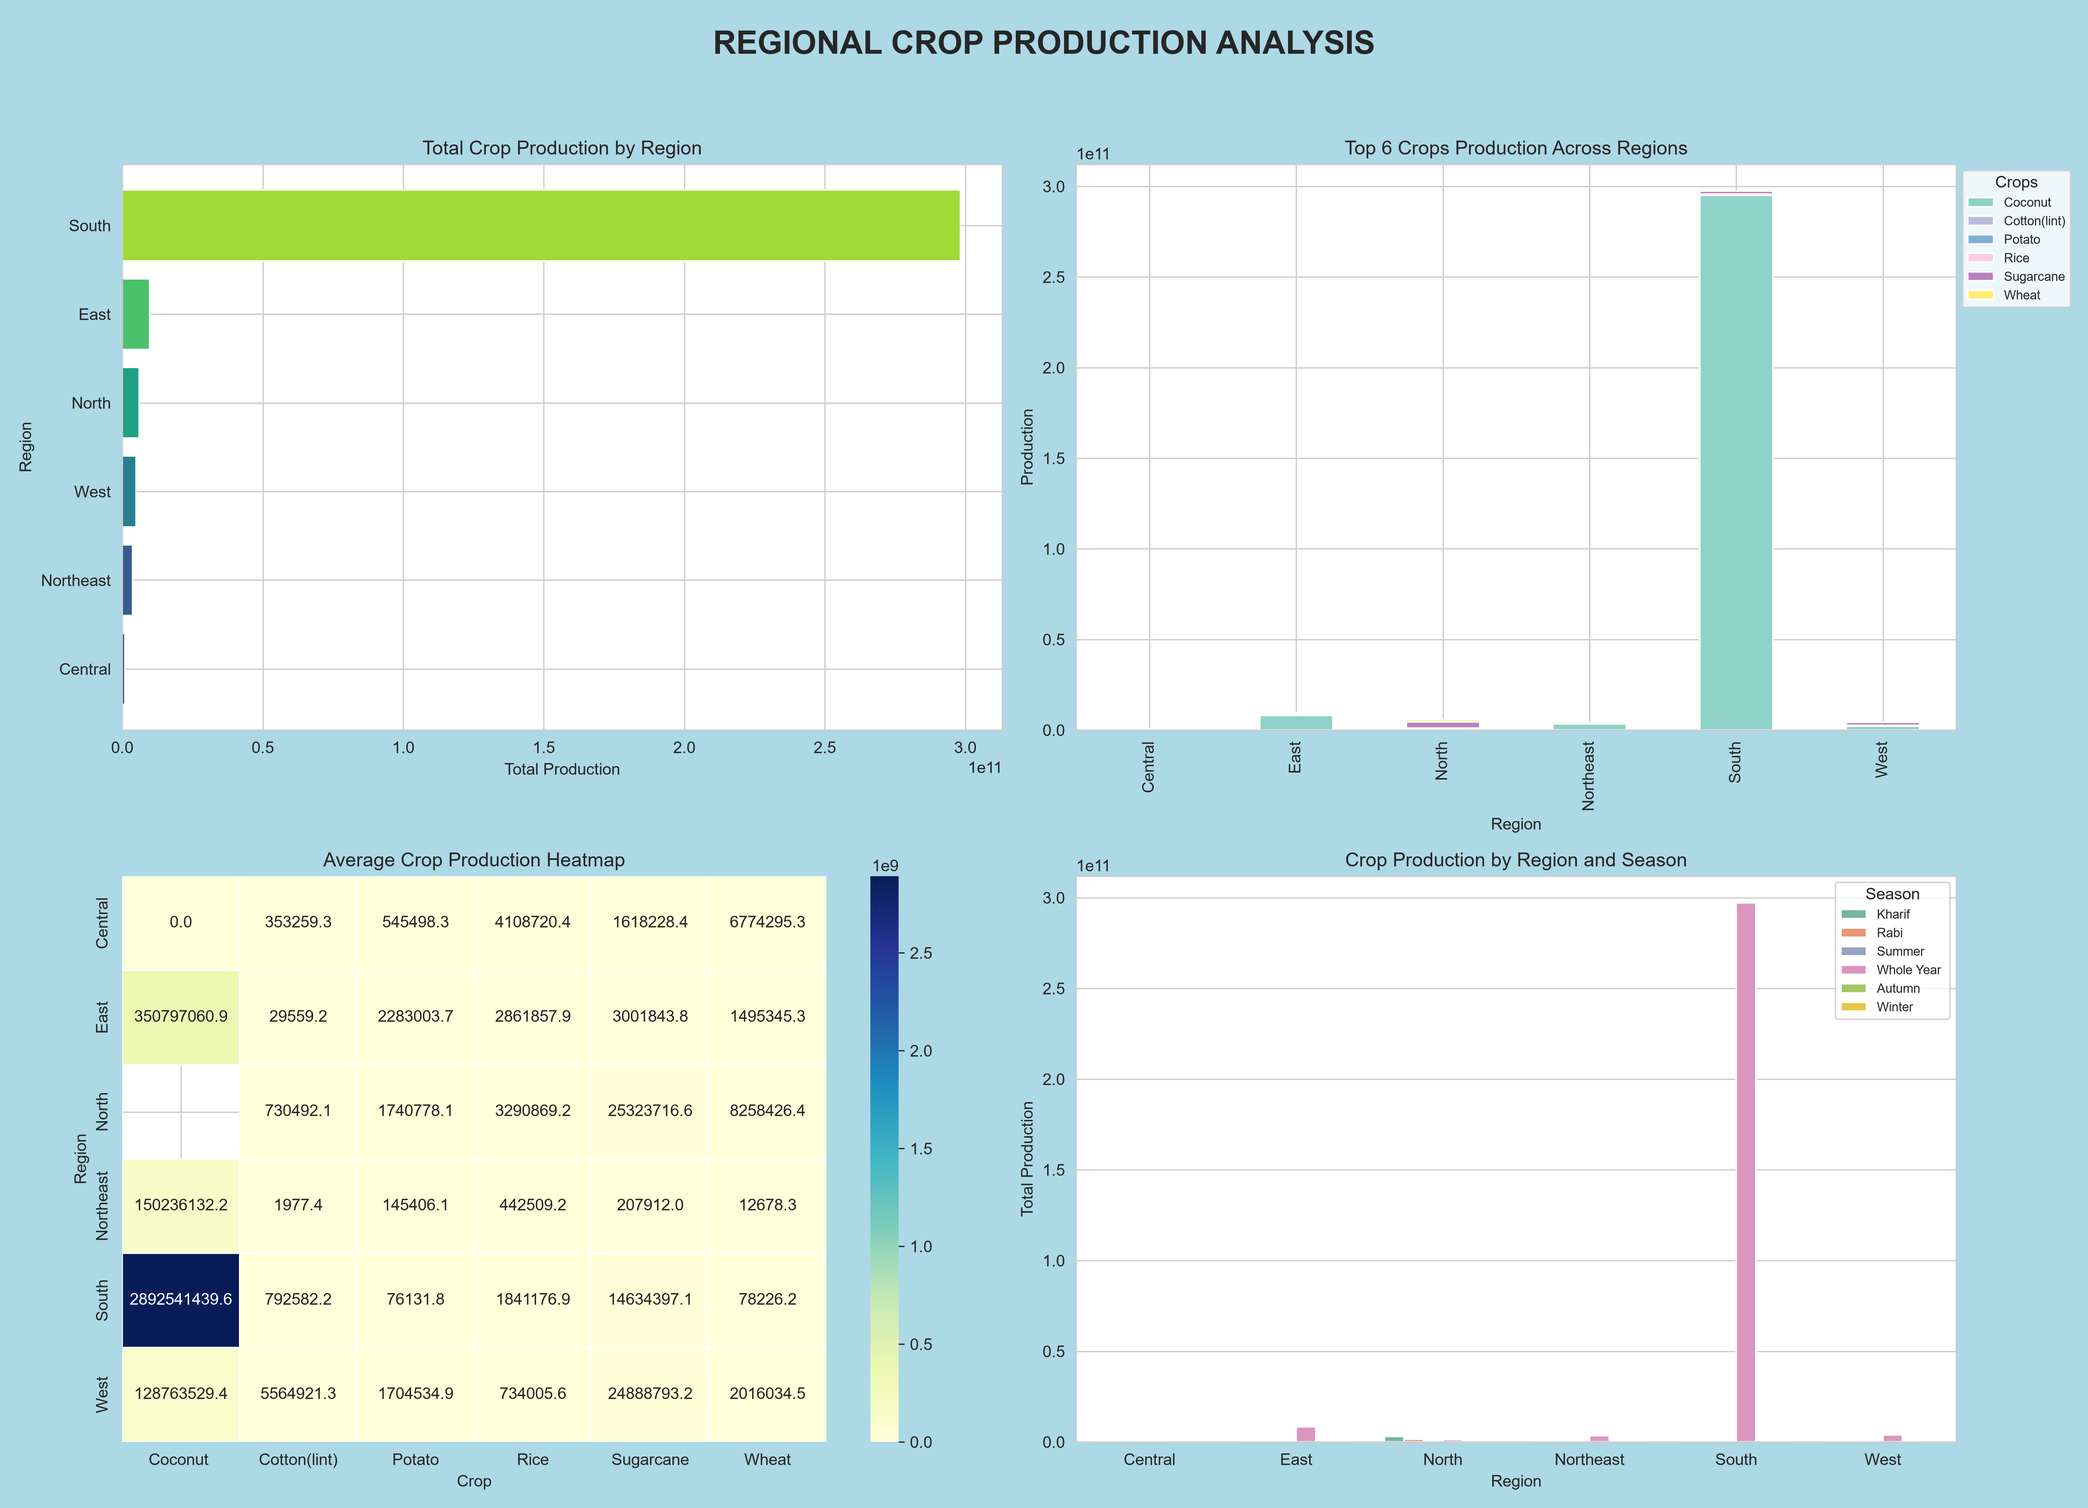
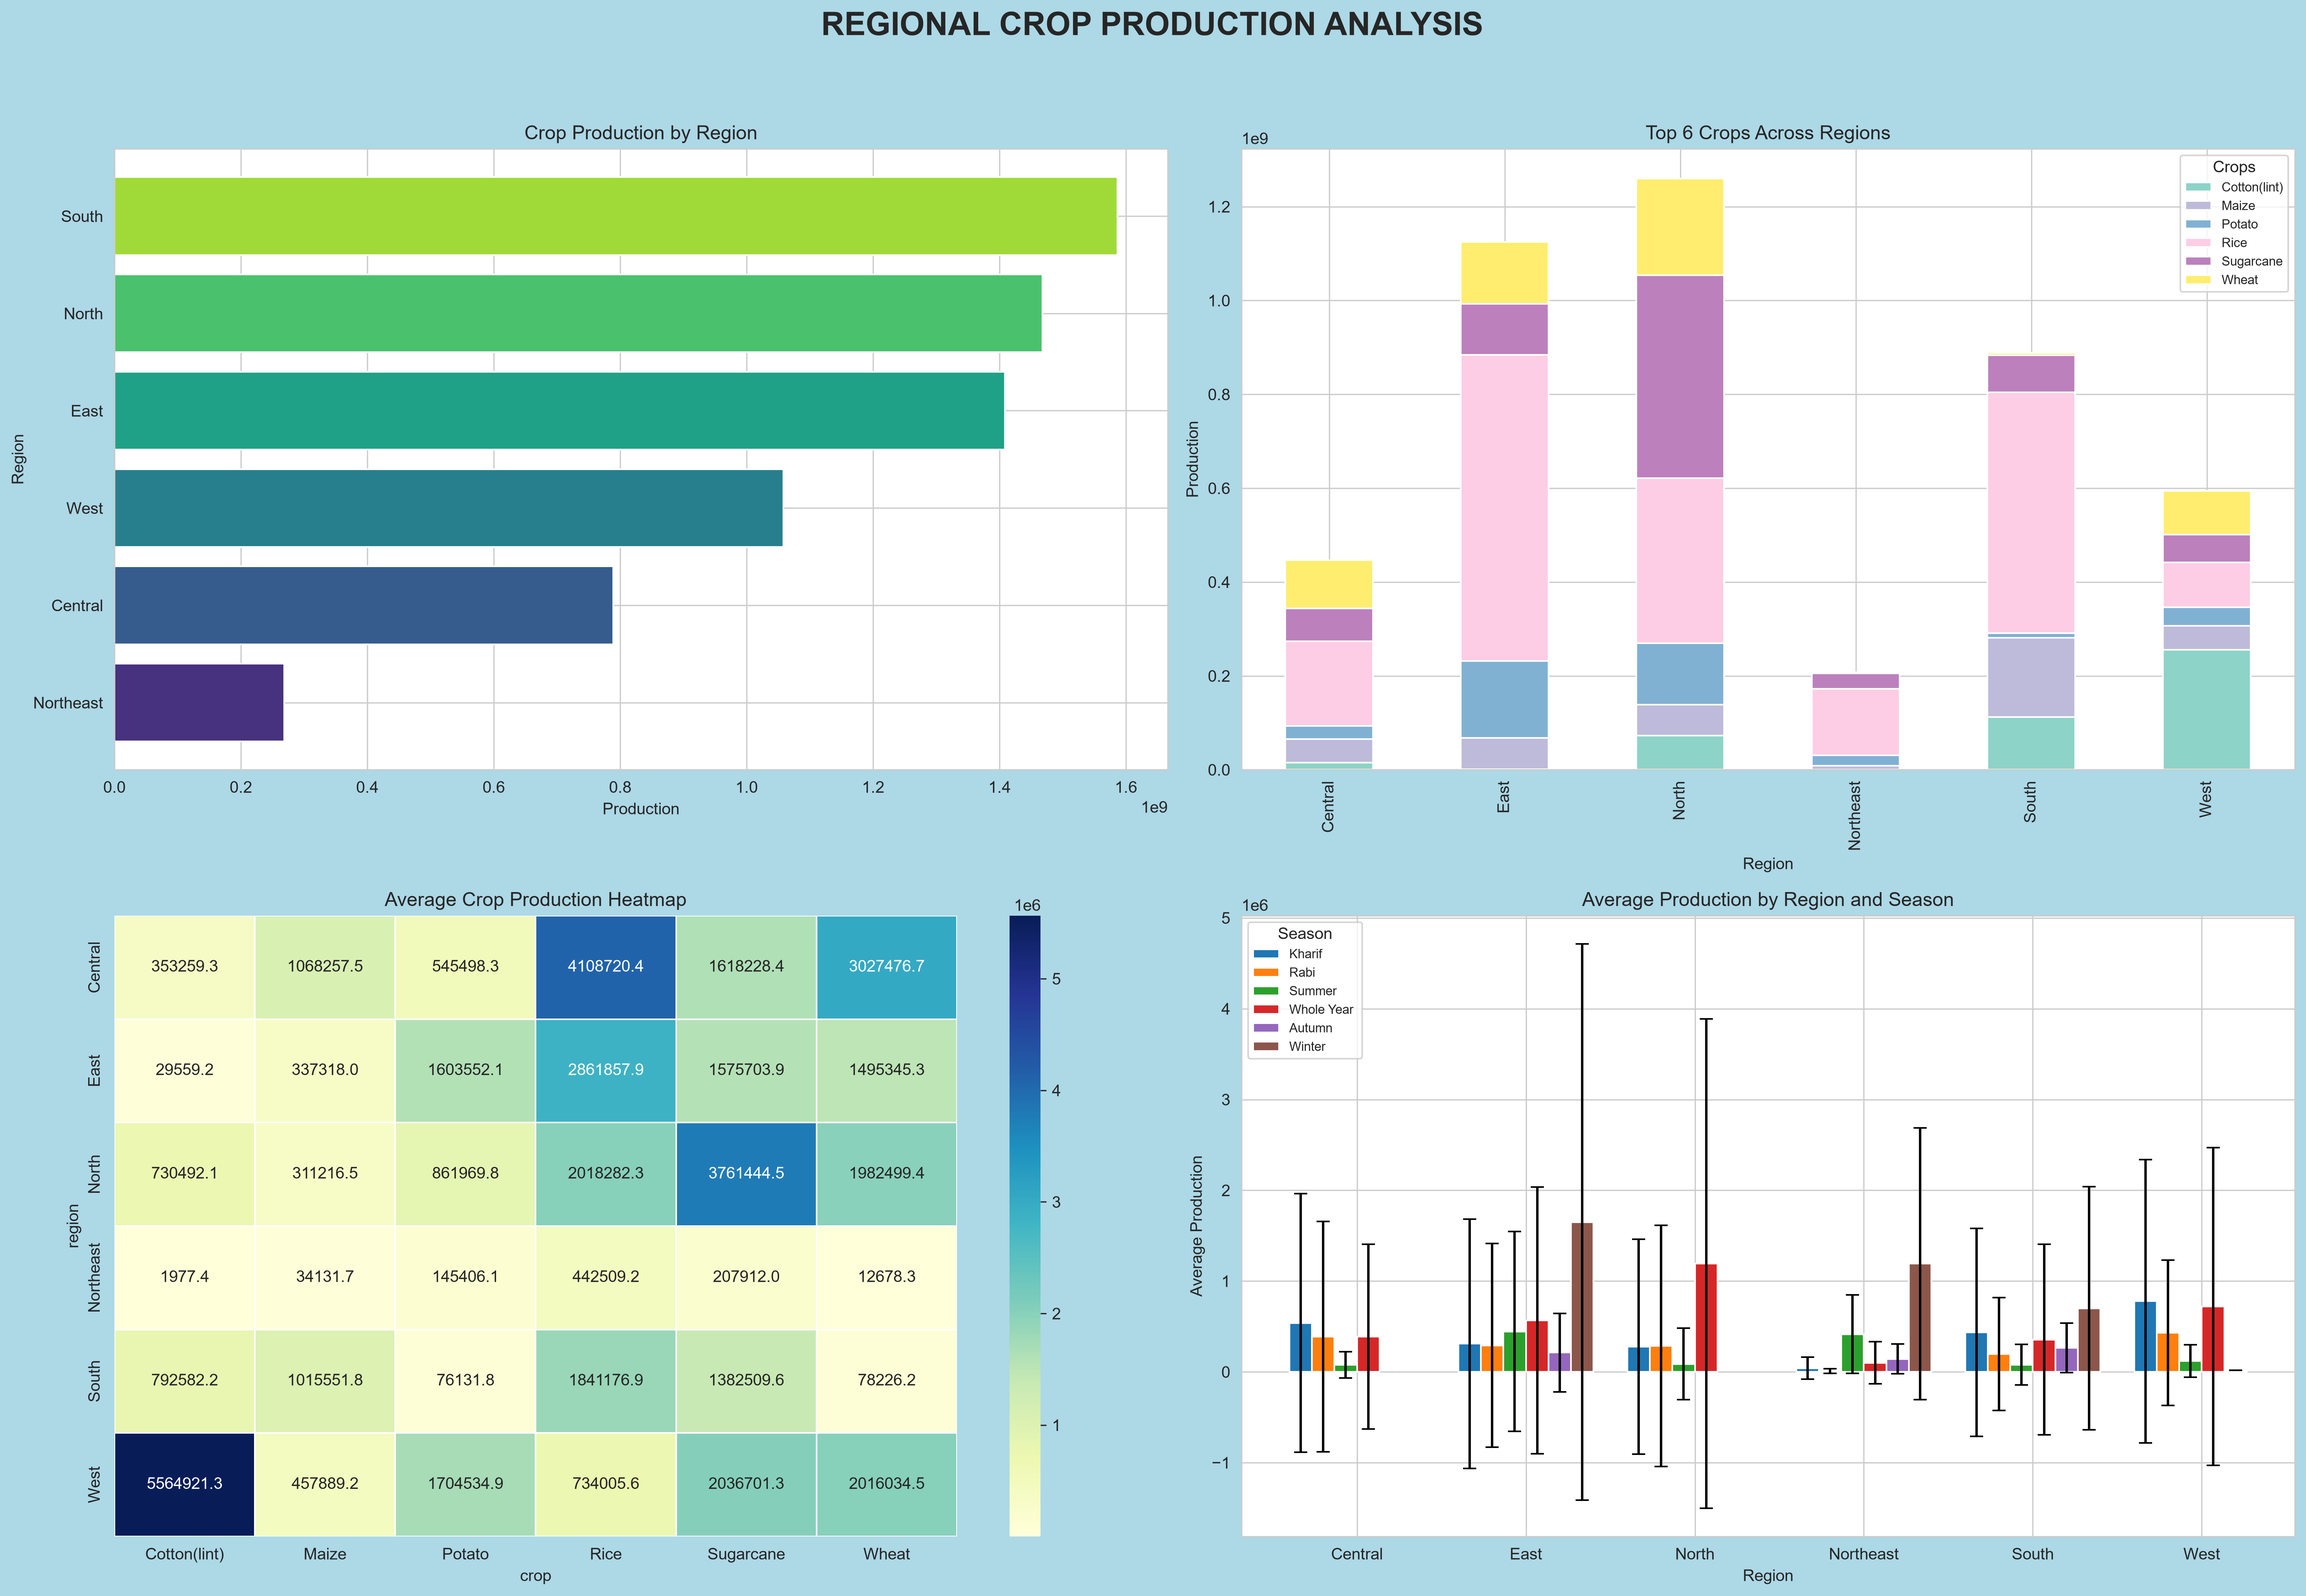
graphs with random 300 observations

diff --git a/visualization.py b/visualization.py
@@ -63,212 +63,243 @@ print("Dataset cleaned successfully!")
 print("Final dataset shape:", df.shape)
 
 # FIGURE 1: REGIONAL CROP PRODUCTION ANALYSIS
-fig, axes = plt.subplots(2, 2, figsize=(18, 13))
 
+production_limit = df["production"].quantile(0.98)
+plot_data = df[df["production"] <= production_limit]
+
+fig, axes = plt.subplots(2, 2, figsize=(20, 14))
 fig.patch.set_facecolor("lightblue")
 
 for ax in axes.flat:
     ax.set_facecolor("white")
 
 fig.suptitle("REGIONAL CROP PRODUCTION ANALYSIS",
-    fontsize=20,fontweight="bold")
+             fontsize=20, fontweight="bold")
 
-# Graph 1: Total production by region
 
-region_production = df.groupby("region")["production"].sum()
-region_production = region_production.sort_values()
+# GRAPH 1: Total Production by Region
+region_production = plot_data.groupby("region")["production"].sum().sort_values()
 
-axes[0, 0].barh(region_production.index,
-    region_production.values,
-    color=sns.color_palette("viridis", len(region_production)))
-
-axes[0, 0].set_title("Total Crop Production by Region")
-axes[0, 0].set_xlabel("Total Production")
+axes[0, 0].barh(region_production.index, region_production.values,
+                color=sns.color_palette("viridis", len(region_production)))
+axes[0, 0].set_title("Crop Production by Region")
+axes[0, 0].set_xlabel("Production")
 axes[0, 0].set_ylabel("Region")
 
-# Graph 2: Top 6 crops production across regions
 
-top_crops = (df.groupby("crop")["production"].sum()
-    .nlargest(6).index)
+# GRAPH 2: Top 6 Crops Across Regions
+top_crops = plot_data.groupby("crop")["production"].sum().nlargest(6).index
+crop_data = plot_data[plot_data["crop"].isin(top_crops)]
 
-crop_data = df[df["crop"].isin(top_crops)]
+crop_region = crop_data.pivot_table(
+    index="region", columns="crop", values="production",
+    aggfunc="sum", fill_value=0
+)
 
-crop_region = crop_data.pivot_table(index="region",columns="crop",
-    values="production",aggfunc="sum",fill_value=0)
-
-crop_region.plot(kind="bar",stacked=True,ax=axes[0, 1],colormap="Set3")
-
-axes[0, 1].set_title("Top 6 Crops Production Across Regions")
+crop_region.plot(kind="bar", stacked=True, ax=axes[0, 1], colormap="Set3")
+axes[0, 1].set_title("Top 6 Crops Across Regions")
 axes[0, 1].set_xlabel("Region")
 axes[0, 1].set_ylabel("Production")
-axes[0, 1].legend(title="Crops", fontsize=8,loc="upper left",bbox_to_anchor=(1, 1))
+axes[0, 1].legend(title="Crops", fontsize=8, bbox_to_anchor=(1, 1))
 
-# Graph 3: Heatmap of average crop production
 
-average_production = crop_data.pivot_table(index="region",columns="crop",
-    values="production",aggfunc="mean")
+# GRAPH 3: Average Crop Production Heatmap
+average_production = crop_data.pivot_table(
+    index="region", columns="crop", values="production", aggfunc="mean"
+)
 
-sns.heatmap(average_production,annot=True,fmt=".1f",
-    cmap="YlGnBu",linewidths=0.5,ax=axes[1, 0])
-
+sns.heatmap(average_production, annot=True, fmt=".1f",
+            cmap="YlGnBu", linewidths=0.5, ax=axes[1, 0])
 axes[1, 0].set_title("Average Crop Production Heatmap")
-axes[1, 0].set_xlabel("Crop")
-axes[1, 0].set_ylabel("Region")
 
-# Graph 4: Production by region and season with error bars
-season_data = df.groupby(["region", "season"]
+
+# GRAPH 4: Average Production by Region and Season
+season_data = plot_data.groupby(
+    ["region", "season"]
 )["production"].agg(["mean", "std"]).reset_index()
 
-regions = season_data["region"].unique()
+regions = sorted(season_data["region"].unique())
 seasons = season_data["season"].unique()
-
 x = np.arange(len(regions))
 width = 0.8 / len(seasons)
 
 for i, season in enumerate(seasons):
     data = season_data[season_data["season"] == season]
     values = data.set_index("region").reindex(regions)
-    axes[1, 1].bar(x + i * width,values["mean"],width,
-        yerr=values["std"].fillna(0),capsize=4,label=season)
+
+    axes[1, 1].bar(
+        x + i * width, values["mean"], width,
+        yerr=values["std"].fillna(0), capsize=4, label=season
+    )
 
 axes[1, 1].set_title("Average Production by Region and Season")
 axes[1, 1].set_xlabel("Region")
 axes[1, 1].set_ylabel("Average Production")
-
 axes[1, 1].set_xticks(x + width * (len(seasons) - 1) / 2)
 axes[1, 1].set_xticklabels(regions)
+axes[1, 1].legend(title="Season", fontsize=8)
 
-axes[1, 1].legend(title="Season")
+plt.tight_layout(rect=[0, 0, 1, 0.95])
+plt.savefig("output_graphs/figure1_regional_production.png",
+            dpi=300, bbox_inches="tight")
+plt.show()
+plt.close()
 
 # FIGURE 2: AGRICULTURAL FACTOR RELATIONSHIPS
+# Select 300 random observations
+sample_data = df.sample( n=min(300, len(df)), random_state=42)
 
-fig, axes = plt.subplots(2, 2, figsize=(18, 13))
+fig, axes = plt.subplots(2, 2, figsize=(20, 14))
 
 fig.patch.set_facecolor("lightblue")
 
 for ax in axes.flat:
     ax.set_facecolor("white")
 
-fig.suptitle("AGRICULTURAL FACTOR RELATIONSHIPS",fontsize=20,
-    fontweight="bold")
+fig.suptitle("AGRICULTURAL FACTOR RELATIONSHIPS",fontsize=20,fontweight="bold")
 
-sample_data = df.sample( n=min(2000, len(df)), random_state=42)
+# GRAPH 1: FERTILIZER VS YIELD
+fertilizer_data = sample_data.dropna(    subset=["fertilizer", "yield"])
 
-# Graph 1: Fertilizer vs yield
+fertilizer_data = fertilizer_data[
+    (fertilizer_data["fertilizer"] <=
+     fertilizer_data["fertilizer"].quantile(0.98)) &
+    (fertilizer_data["yield"] <=
+     fertilizer_data["yield"].quantile(0.98))
+]
 
-fertilizer_data = sample_data.dropna(subset=["fertilizer", "yield"])
+sns.scatterplot( data=fertilizer_data, x="fertilizer", y="yield", hue="region", palette="viridis",
+    s=60, alpha=0.7, ax=axes[0, 0])
+sns.regplot( data=fertilizer_data, x="fertilizer", y="yield",
+    scatter=False, color="red", ax=axes[0, 0])
 
-sns.scatterplot(data=fertilizer_data,x="fertilizer",y="yield",
-    hue="region", palette="viridis", ax=axes[0, 0], alpha=0.7)
+axes[0, 0].set_title("Fertilizer vs Crop Yield",fontsize=14)
 
-sns.regplot(data=fertilizer_data,x="fertilizer",y="yield",
-    scatter=False,color="red",ax=axes[0, 0])
-
-axes[0, 0].set_title("Relationship Between Fertilizer and Yield")
 axes[0, 0].set_xlabel("Fertilizer")
 axes[0, 0].set_ylabel("Crop Yield")
-axes[0, 0].legend(title="Region", fontsize=8)
 
-# Graph 2: Pesticide vs yield
+axes[0, 0].legend(title="Region",fontsize=8)
 
-pesticide_data = sample_data.dropna(subset=["pesticide", "yield"])
+# GRAPH 2: PESTICIDE VS YIELD
+pesticide_data = sample_data.dropna(    subset=["pesticide", "yield"])
 
-sns.scatterplot(data=pesticide_data,x="pesticide",y="yield",hue="region",
-    palette="Set1",ax=axes[0, 1],alpha=0.7)
+pesticide_data = pesticide_data[
+    (pesticide_data["pesticide"] <=
+     pesticide_data["pesticide"].quantile(0.98)) &
+    (pesticide_data["yield"] <=
+     pesticide_data["yield"].quantile(0.98))
+]
+
+sns.scatterplot(data=pesticide_data,x="pesticide",y="yield",hue="region",palette="Set1",s=60,alpha=0.7,
+                ax=axes[0, 1])
 
 sns.regplot(data=pesticide_data,x="pesticide",y="yield",
-    scatter=False,color="black",ax=axes[0, 1])
+    scatter=False, color="black", ax=axes[0, 1])
 
-axes[0, 1].set_title("Relationship Between Pesticide and Yield")
+axes[0, 1].set_title("Pesticide vs Crop Yield", fontsize=14)
+
 axes[0, 1].set_xlabel("Pesticide")
 axes[0, 1].set_ylabel("Crop Yield")
-axes[0, 1].legend(title="Region", fontsize=8)
 
-# Graph 3: Area vs production bubble chart
+axes[0, 1].legend(title="Region",fontsize=8)
 
-sns.scatterplot(data=sample_data,x="area",y="production",hue="region",size="yield",
-    sizes=(20, 200),palette="Dark2",ax=axes[1, 0],alpha=0.7)
+# GRAPH 3: CULTIVATED AREA VS PRODUCTION
+area_data = sample_data.dropna(    subset=["area", "production", "yield"])
 
-axes[1, 0].set_title("Cultivated Area vs Crop Production")
+area_data = area_data[
+    (area_data["area"] <=
+     area_data["area"].quantile(0.98)) &
+    (area_data["production"] <=
+     area_data["production"].quantile(0.98))
+]
+
+sns.scatterplot( data=area_data, x="area", y="production", hue="region", size="yield",
+    sizes=(30, 180), palette="Dark2", alpha=0.7, ax=axes[1, 0])
+
+axes[1, 0].set_title("Cultivated Area vs Crop Production",fontsize=14)
+
 axes[1, 0].set_xlabel("Cultivated Area")
 axes[1, 0].set_ylabel("Crop Production")
-axes[1, 0].legend(title="Region and Yield",fontsize=7,
-    loc="upper left",bbox_to_anchor=(1, 1))
 
-# Graph 4: Correlation heatmap
+axes[1, 0].legend(title="Region and Yield",fontsize=8,loc="upper left",bbox_to_anchor=(1, 1))
 
-correlation = df[
-    ["area", "production", "fertilizer", "pesticide", "yield"]
-].corr()
+# GRAPH 4: CORRELATION HEATMAP
+correlation = df[    ["area", "production", "fertilizer",
+     "pesticide", "yield"]].corr()
 
 sns.heatmap(correlation,annot=True,cmap="coolwarm",fmt=".2f",
-    linewidths=0.5,ax=axes[1, 1])
+    linewidths=0.5,square=True,ax=axes[1, 1])
 
-axes[1, 1].set_title("Correlation Between Agricultural Factors")
+axes[1, 1].set_title( "Correlation Between Agricultural Factors", fontsize=14)
 
 plt.tight_layout(rect=[0, 0, 1, 0.95])
 
-plt.savefig("output_graphs/figure2_agricultural_relationships.png",dpi=300)
+plt.savefig( "output_graphs/figure2_agricultural_relationships.png", dpi=300,
+    bbox_inches="tight")
 plt.show()
 plt.close()
 
 # FIGURE 3: CROP YIELD AND SEASONAL ANALYSIS
-fig, axes = plt.subplots(2, 2, figsize=(18, 13))
 
+sample_data = df.sample(n=min(300, len(df)), random_state=42)
+
+yield_limit = df["yield"].quantile(0.98)
+sample_data = sample_data[sample_data["yield"] <= yield_limit]
+
+fig, axes = plt.subplots(2, 2, figsize=(20, 14))
 fig.patch.set_facecolor("lightblue")
 
 for ax in axes.flat:
     ax.set_facecolor("white")
 
-fig.suptitle("CROP YIELD AND SEASONAL ANALYSIS",fontsize=20,fontweight="bold")
-
-# Graph 1: Yield distribution across regions
-
-sns.boxplot(data=df,x="region",y="yield",hue="region",palette="Set2",
-    ax=axes[0, 0], showfliers=False, legend=False)
+fig.suptitle("CROP YIELD AND SEASONAL ANALYSIS",
+             fontsize=20, fontweight="bold")
+# GRAPH 9: Yield Distribution Across Regions
+sns.boxplot(data=sample_data, x="region", y="yield",
+            hue="region", palette="Set2", ax=axes[0, 0],
+            showfliers=False, legend=False)
 
 axes[0, 0].set_title("Crop Yield Distribution Across Regions")
 axes[0, 0].set_xlabel("Region")
 axes[0, 0].set_ylabel("Crop Yield")
 
-# Graph 2: Yield distribution across seasons
-
-sns.violinplot(data=df,x="season",y="yield",hue="season",palette="Pastel1",
-    ax=axes[0, 1],cut=0,inner="quart",legend=False)
+# GRAPH 10: Yield Distribution Across Seasons
+sns.violinplot(data=sample_data, x="season", y="yield",
+               hue="season", palette="Pastel1", ax=axes[0, 1],
+               cut=0, inner="quart", legend=False)
 
 axes[0, 1].set_title("Crop Yield Distribution Across Seasons")
 axes[0, 1].set_xlabel("Season")
 axes[0, 1].set_ylabel("Crop Yield")
 
-# Graph 3: Yearly average yield trends across regions
-yearly_yield = df.groupby(["year", "region"]
+# GRAPH 11: Yearly Average Yield Trends
+trend_data = df[df["yield"] <= yield_limit]
+
+yearly_yield = trend_data.groupby( ["year", "region"]
 )["yield"].agg(["mean", "std"]).reset_index()
 
 for region in yearly_yield["region"].unique():
     data = yearly_yield[yearly_yield["region"] == region]
-    axes[1, 0].errorbar(data["year"], data["mean"], yerr=data["std"].fillna(0),
-        marker="o", capsize=4, label=region)
+
+    axes[1, 0].errorbar( data["year"], data["mean"], yerr=data["std"].fillna(0),
+        marker="o", capsize=3, label=region)
 
 axes[1, 0].set_title("Yearly Average Crop Yield Trends")
 axes[1, 0].set_xlabel("Year")
 axes[1, 0].set_ylabel("Average Crop Yield")
+axes[1, 0].legend(title="Region", fontsize=8)
 
-axes[1, 0].legend(title="Region")
-
-# Graph 4: Yield across regions and seasons
-
-sns.boxplot( data=df, x="region", y="yield", hue="season", palette="Spectral",
-    ax=axes[1, 1],showfliers=False)
+# GRAPH 12: Yield Across Regions and Seasons
+sns.boxplot(data=sample_data, x="region", y="yield",
+            hue="season", palette="Spectral", ax=axes[1, 1],showfliers=False)
 
 axes[1, 1].set_title("Crop Yield Across Regions and Seasons")
 axes[1, 1].set_xlabel("Region")
 axes[1, 1].set_ylabel("Crop Yield")
-axes[1, 1].legend(title="Season",fontsize=8,loc="upper left",bbox_to_anchor=(1, 1))
+axes[1, 1].legend(title="Season", fontsize=8,bbox_to_anchor=(1, 1))
 
 plt.tight_layout(rect=[0, 0, 1, 0.95])
-
-plt.savefig("output_graphs/figure3_yield_seasonal_analysis.png",dpi=300)
+plt.savefig("output_graphs/figure3_yield_seasonal_analysis.png",
+            dpi=300, bbox_inches="tight")
 plt.show()
 plt.close()
-print("\nAll three dashboards have been generated successfully!")
-print("Check the output_graphs folder.")
